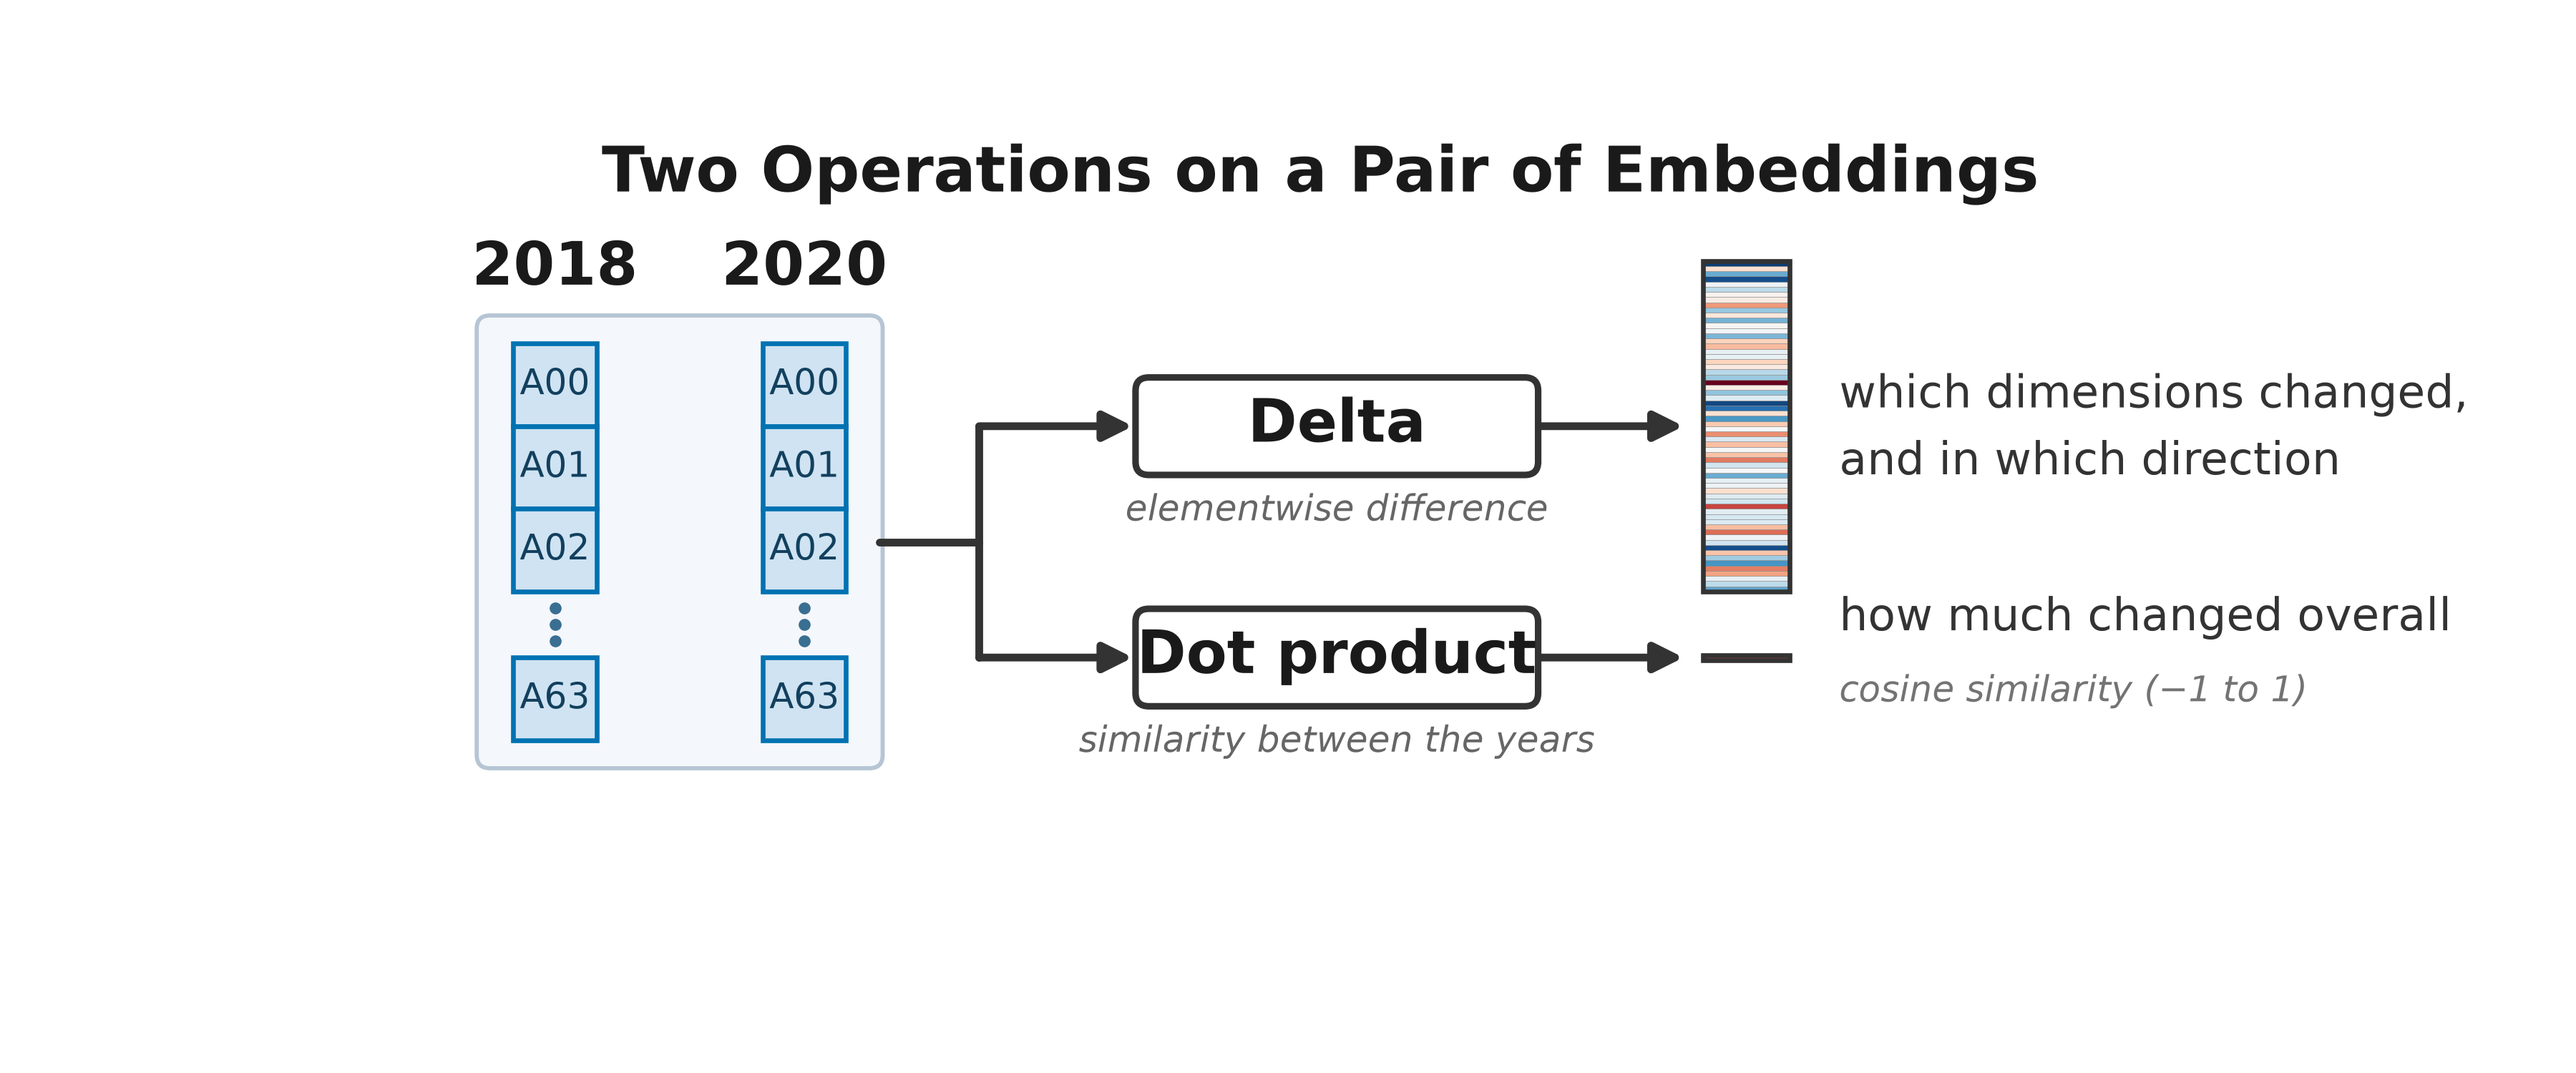
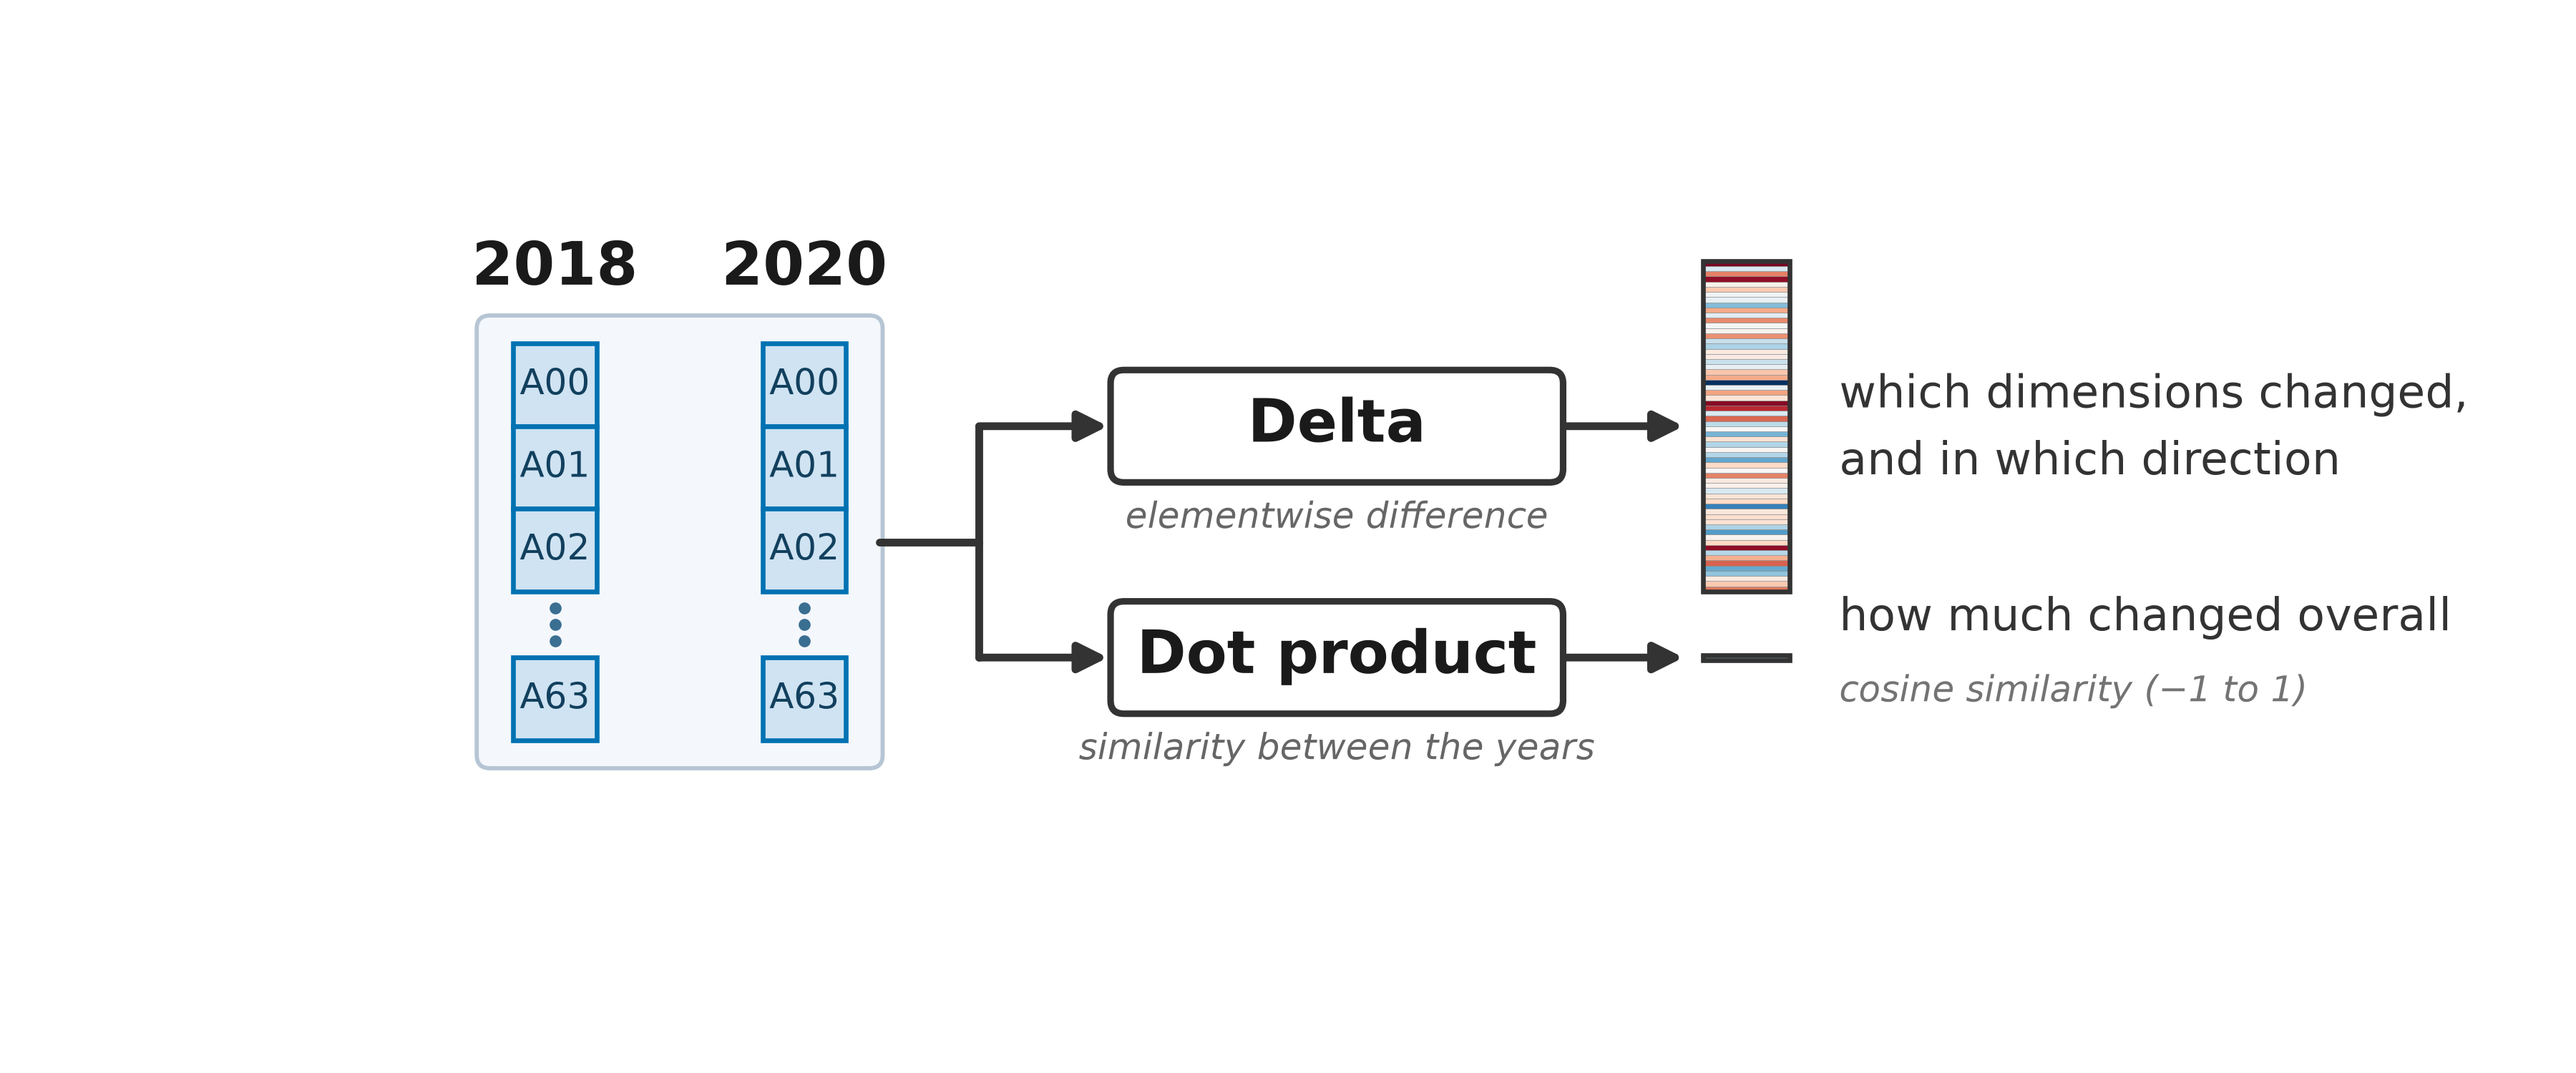
pres_15: bigger op boxes, drop title, red-white-blue delta, lighter dot cell
Enlarged the operation boxes so the labels clear the borders, removed the in-plot
title, switched the delta map to RdBu (red->white->blue), and lightened the single
dot-product cell.

diff --git a/presentation/scripts/pres_15_embedding_ops.py b/presentation/scripts/pres_15_embedding_ops.py
@@ -57,7 +57,7 @@ CW = 0.52                                      # delta-strip / dot-cell width
 SH = 2.0                                       # delta-strip height (64 cells)
 CH = SH / NCELL                                # single-cell height, shared by strip cells and dot cell
 DELTA_CY, DOT_CY = 3.2, 1.8                    # upper (delta) and lower (dot) lanes, symmetric about BOX_CY
-NODE_CX, NODE_H = 6.1, 0.55
+NODE_CX, NODE_H = 6.1, 0.64
 NODE_W = 2.0                                    # recomputed in main() to fit the widest label
 FORK_X = 3.95                                   # riser x, just right of the group box
 OUT_X = 8.3                                     # x-left of both outputs (same column: strip over cell)
@@ -121,7 +121,7 @@ def main():
     a = rng.uniform(-1.0, 1.0, NCELL)
     b = a + rng.normal(0.0, 0.45, NCELL)
     delta = b - a                                        # signed elementwise difference, illustrative
-    div = plt.get_cmap("RdBu_r")
+    div = plt.get_cmap("RdBu")                            # red -> white -> blue, colorblind-safe
     dmax = float(np.max(np.abs(delta)))
     n_d = TwoSlopeNorm(vmin=-dmax, vcenter=0.0, vmax=dmax)
 
@@ -138,10 +138,7 @@ def main():
         t = fig.text(0, 0, name, fontsize=LABEL_FS, fontweight="bold")
         widest = max(widest, t.get_window_extent(r).width / fig.dpi)
         t.remove()
-    NODE_W = widest + 0.5
-
-    ax.text(FIG_W / 2, 4.72, "Two Operations on a Pair of Embeddings", ha="center", va="center",
-            fontsize=LABEL_FS + 1, fontweight="bold", color="#1a1a1a")
+    NODE_W = widest + 0.8                                 # 0.4 in padding each side
 
     # light group box around both embeddings (drawn first, behind the stacks)
     ax.add_patch(FancyBboxPatch((BOX_L, BOX_B), BOX_R - BOX_L, BOX_T - BOX_B,
@@ -172,7 +169,7 @@ def main():
 
     # outputs at the same cell scale: 64-cell delta strip over a single dot-product cell
     _cells(ax, OUT_X, DELTA_CY, delta, div, n_d)
-    ax.add_patch(Rectangle((OUT_X, DOT_CY - CH / 2), CW, CH, facecolor=div(0.82),
+    ax.add_patch(Rectangle((OUT_X, DOT_CY - CH / 2), CW, CH, facecolor=div(0.66),   # lighter single cell
                            edgecolor=FRAME, linewidth=1.6, zorder=4))
 
     # per-operation annotations, right of each output
